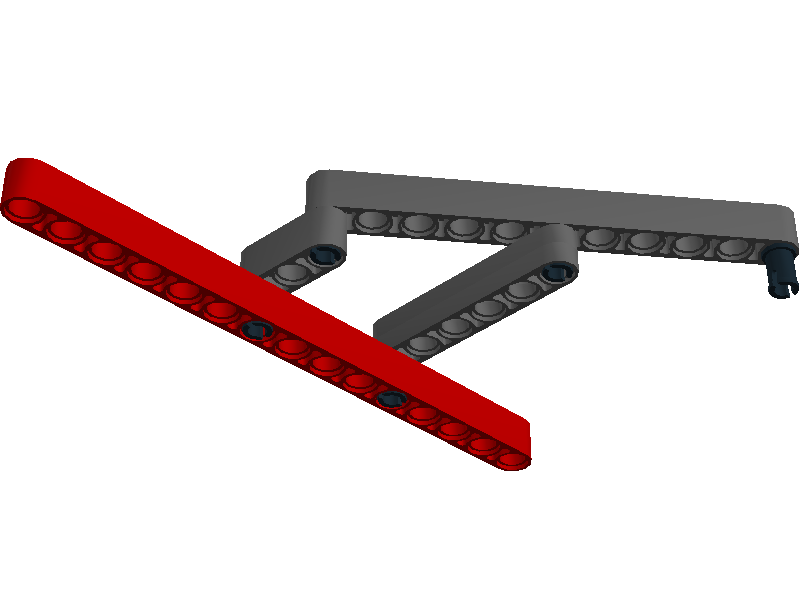
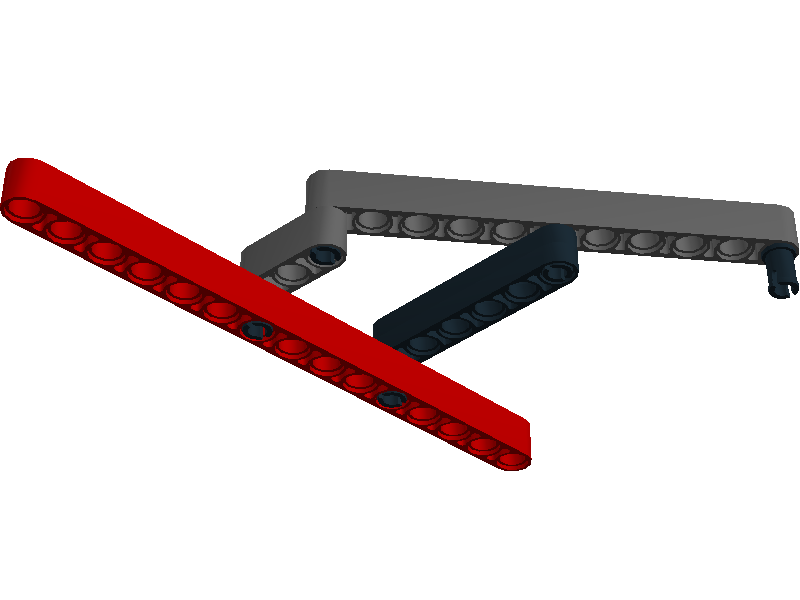
Fix color for lambda

Changed region(s): [[0.4688, 0.36, 0.75, 0.6]]

diff --git a/html/Building Instructions [lambda].html b/html/Building Instructions [lambda].html
@@ -305,7 +305,7 @@
 					        <td>2&nbsp;x</td>
 					        <td><img height="64" width="64" src="Building Instructions [lambda]-images/Brick3.png" /></td>
 					        <td></td>
-					        <td>TECHNIC 6M HALF BEAM - Dark Stone Grey</td>
+					        <td>TECHNIC 6M HALF BEAM - Black</td>
 				        </tr>
                     </table>
                 </div>
